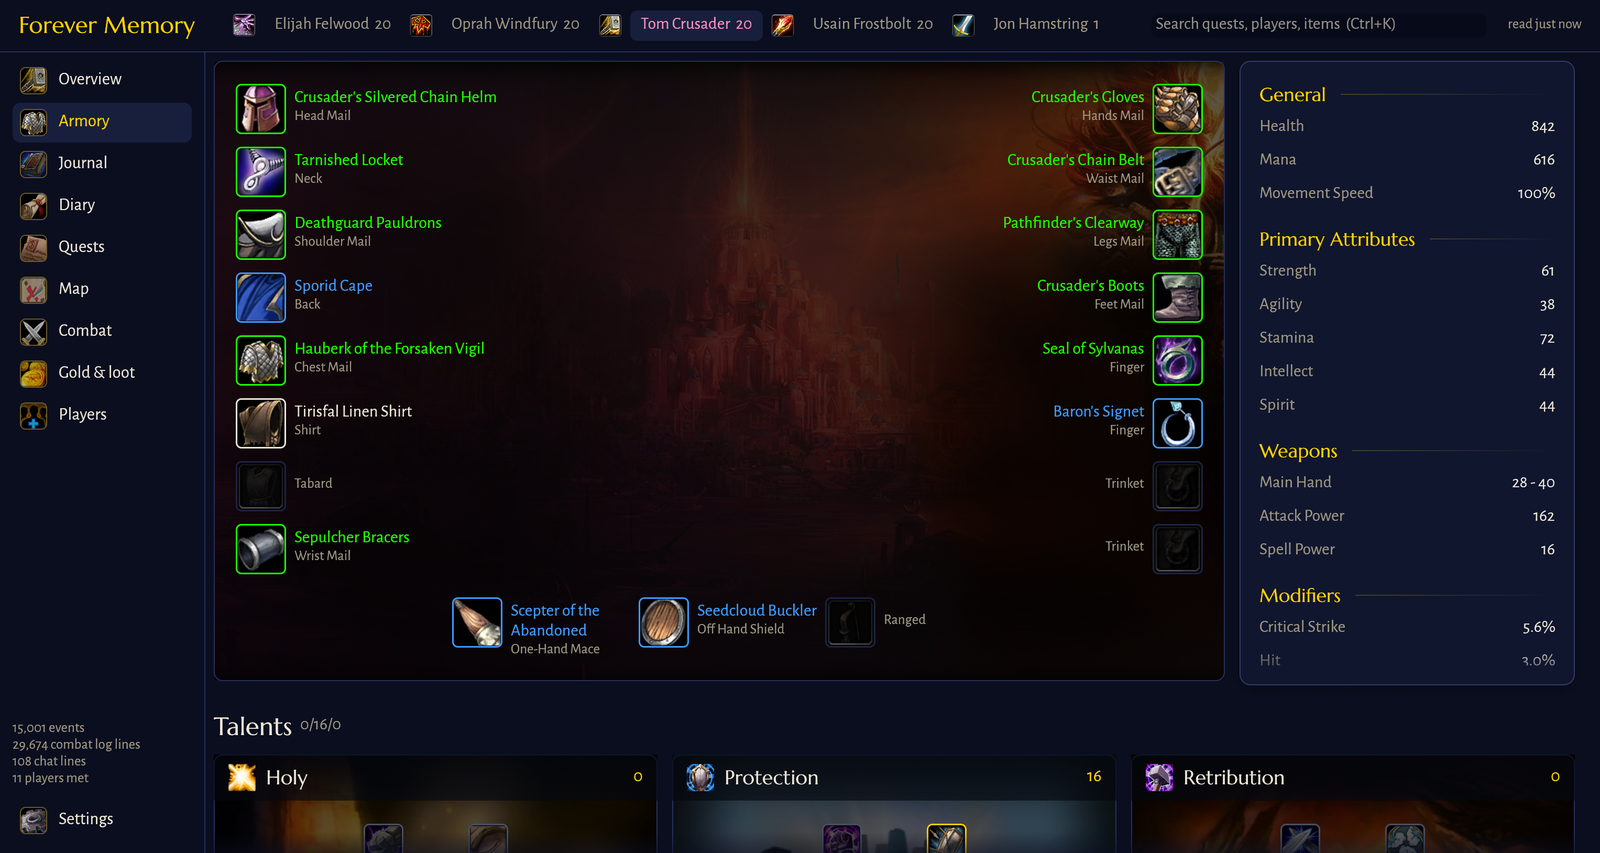
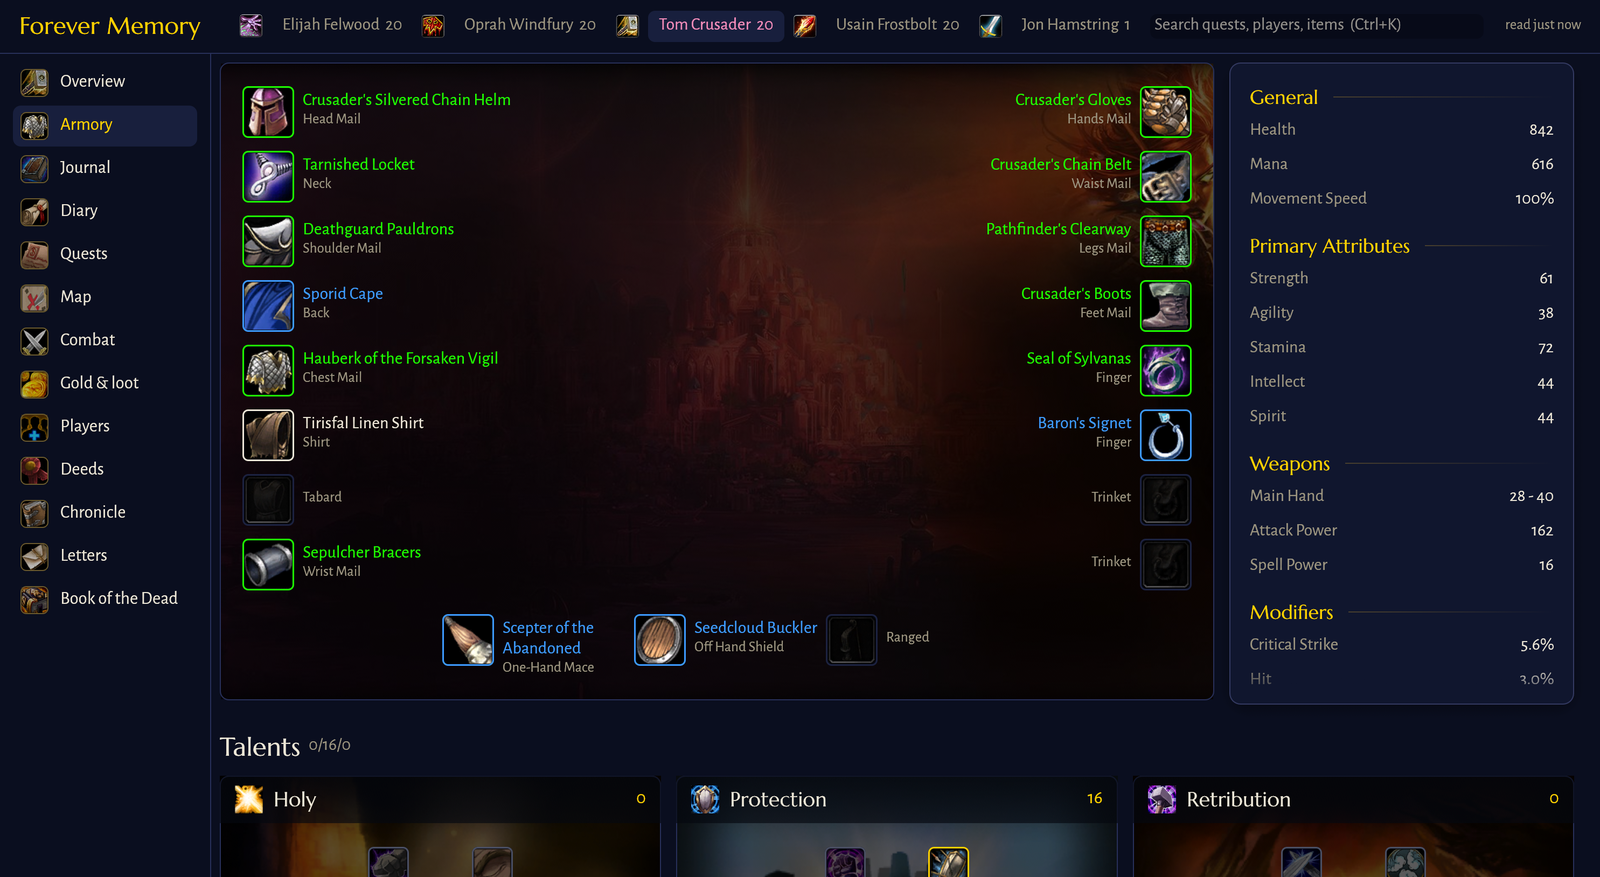
0.3.0: deeds, item stories, the Chronicle, letters, the Book of the Dead, fellowship and nemeses, "Previously on…", faster loading

diff --git a/README.md b/README.md
@@ -70,6 +70,24 @@ The app speaks English, Deutsch, Français, Español, Português (Brasil) and
 - **Players**: everyone met, searchable, with full names, class, race, level
   and guild once the addon has seen them up close (else a class guess from
   their spells), what passed between you, what they cast and what they said.
+- **Fellowship and nemeses**: who each character travelled with, for how
+  long, and what passed between them; who killed them, where, and whether
+  they took their revenge.
+- **Deeds**: class-specific feats earned from what was recorded (Hands of
+  Mercy, Consecrated Ground, Payback…), each with the moment it was earned.
+- **Item stories**: every item's life, from who dropped it to what replaced
+  it, and the kills made while it was wielded.
+- **The Chronicle**: a character's diary bound as a book, with chapters by
+  zone and pages that turn.
+- **Letters**: a player's characters write to each other in their own voices,
+  about their days and what the account shares (mounts, companions, Legacy).
+- **The Book of the Dead**: every death with its last ten seconds, and an
+  epitaph written by the one who died.
+- **"Previously on…"** for streamers: a page for an OBS browser source that
+  reads the last diary entry aloud before the stream starts, with a
+  countdown.
+- Every race and class starts with a personality of its own for the diary,
+  which you can make your own.
 
 On start the app shows a loading screen (Forever's own continent art, a
 progress bar, tips about your characters) until the logs are read and all game
@@ -124,6 +142,18 @@ Tom Crusader, a level 20 Undead Protection Paladin, and his alts are made-up dem
 
 ![Diary](docs/screenshots/diary.png)
 
+**Chronicle**
+
+![Chronicle](docs/screenshots/chronicle.png)
+
+**Letters**
+
+![Letters](docs/screenshots/letters.png)
+
+**Deeds**
+
+![Deeds](docs/screenshots/deeds.png)
+
 **Quests**
 
 ![Quests](docs/screenshots/quests.png)
@@ -136,6 +166,10 @@ Tom Crusader, a level 20 Undead Protection Paladin, and his alts are made-up dem
 
 ![Combat](docs/screenshots/combat.png)
 
+**Book of the Dead**
+
+![Book of the Dead](docs/screenshots/dead.png)
+
 **Gold & loot**
 
 ![Gold & loot](docs/screenshots/gold.png)
@@ -143,6 +177,14 @@ Tom Crusader, a level 20 Undead Protection Paladin, and his alts are made-up dem
 **Players**
 
 ![Players](docs/screenshots/players.png)
+
+**Fellowship**
+
+![Fellowship](docs/screenshots/fellowship.png)
+
+**Nemeses**
+
+![Nemeses](docs/screenshots/nemeses.png)
 
 ## Data
 

diff --git a/CHANGELOG.md b/CHANGELOG.md
@@ -1,5 +1,21 @@
 # Changelog
 
+## 0.3.0
+
+- Deeds: 14 for everyone and 6 per class, earned from what was recorded.
+- Item stories in the Armory and Gold & loot tooltips.
+- The Chronicle: the diary as a book with chapters and turning pages.
+- Letters between a player's characters, in their own voices, about what
+  they share: mounts and companions (recorded by addon 0.3.0), Legacy.
+- The Book of the Dead: every death, its last ten seconds, and an epitaph.
+- Fellowship and nemeses on the Players page.
+- "Previously on…": a page for OBS that reads the last entry aloud before a
+  stream, with a countdown; also `forever-memory previously <character>`.
+- Every race and class combination has a personality to start from.
+- Loading is 10 to 40 times faster: finished logs are parsed once and
+  cached, and reloads only read what changed. Position samples from
+  archived logs are no longer dropped when the game folder sorts first.
+
 ## 0.2.1
 
 - Files a partial game install hasn't downloaded yet (icons, maps, talent
